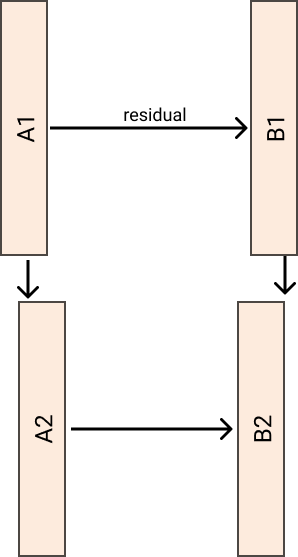
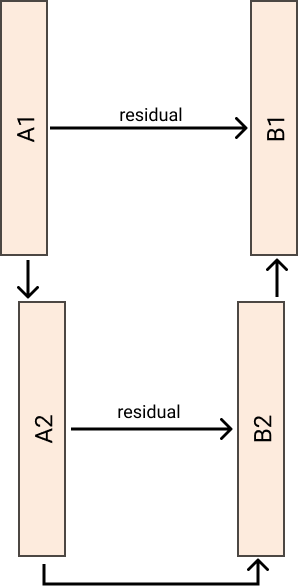
more doc

diff --git a/torchlego/blocks/__init__.py b/torchlego/blocks/__init__.py
@@ -100,10 +100,11 @@ class Residual(nn.Module):
         self.res_func = res_func
    
     def forward(self, x):
-        residuals = [None] * (len(self.blocks[0]))
+        residuals = None
         for block in self.blocks:
             block_type = type(block)
             if block_type is nn.ModuleList:
+                if residuals is None: residuals = [None] * (len(self.blocks[0]))
                 residuals = residuals[:len(block)]
                 residuals.reverse()
                 for i, layer in enumerate(block):
@@ -125,7 +126,6 @@ class Residual(nn.Module):
                 if self.shortcut is not None:
                     res = self.shortcut(res)
                 x = self.res_func(x, res)
-        print([res.shape[1] for res in residuals])
 
         return x
 
